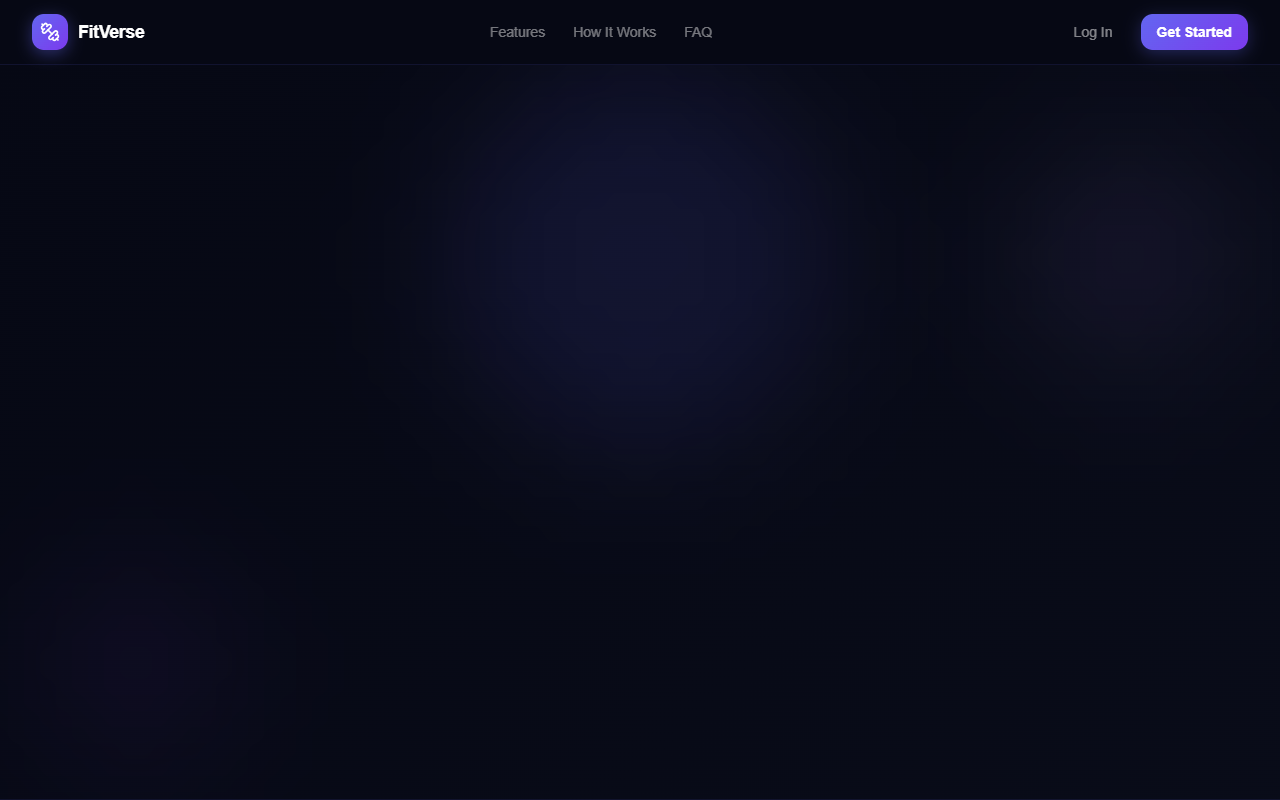
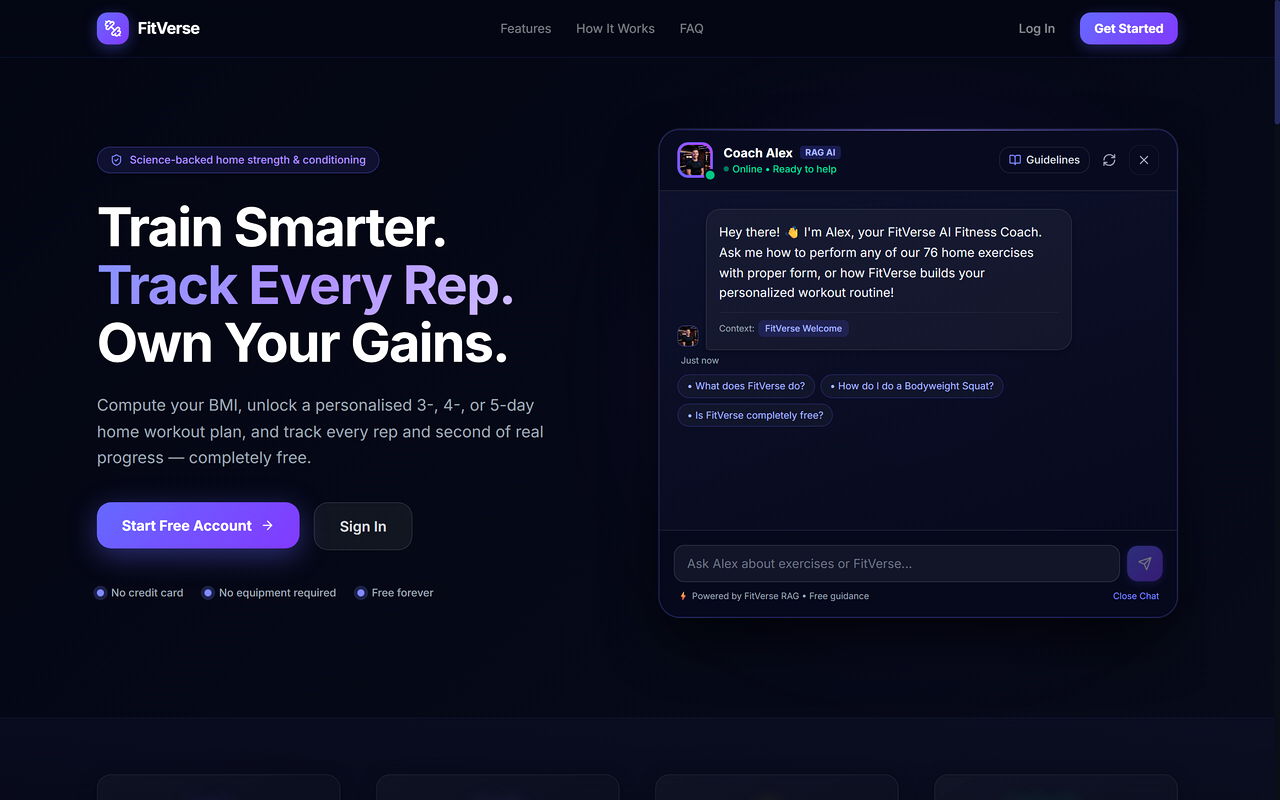
feat: update FitVerse showcase with HiDPI preview and RAG AI chatbot architecture details

diff --git a/src/components/Projects.jsx b/src/components/Projects.jsx
@@ -12,21 +12,30 @@ const projects = [
   {
     id: "fitverse",
     number: "01",
-    title: "FitVerse — Smart Workout Planner & Tracker",
-    category: "Full-Stack Web App",
+    title: "FitVerse — AI Workout Planner & RAG Fitness Coach",
+    category: "AI & Full-Stack MERN",
     filterCategory: "mern",
     domain: "fitversee.vercel.app",
     liveUrl: "https://fitversee.vercel.app",
     image: "/projects/fitverse.png",
     description:
-      "A responsive, full-featured digital fitness companion designed for crafting custom training splits, logging daily sets/reps in real time, and visualizing long-term performance gains with interactive milestone tracking.",
+      "An intelligent, full-stack fitness platform featuring 'Coach Alex' — an integrated RAG-based AI fitness coach powered by Gemini API with domain knowledge retrieval across 76 exercise guides and 36 deterministic workout plans. Engineered with server-evaluated BMI/age-band stratification, live workout logging with rest timers, and interactive volume/streak analytics.",
     highlights: [
-      "Dynamic routine builder with exercise database & target muscle mapping",
-      "Live workout logger with interactive set, rep, and weight counters",
-      "Persistent workout analytics, milestone streaks, and responsive dark UI",
+      "RAG AI Fitness Coach (Coach Alex): Grounded semantic retrieval across 76 exercise guides & 36 custom splits with tokenized BM25 search, synonym expansion, and source citations",
+      "Algorithmic Plan Personalization: Deterministic routine allocation dynamically calculated from server-side BMI, age-band, and experience classifications",
+      "Live Session Tracker & Analytics: Interactive set/rep/weight logging with rest interval timers and multi-metric visual progress tracking powered by Recharts",
     ],
-    tags: ["React.js", "Tailwind CSS", "JavaScript", "Vite", "PWA Ready"],
-    badge: "Live Production",
+    tags: [
+      "React 19",
+      "Node.js",
+      "Express 5",
+      "MongoDB",
+      "RAG Architecture",
+      "Gemini API",
+      "Tailwind CSS",
+      "Recharts",
+    ],
+    badge: "RAG AI • Live",
     badgeColor: "emerald",
     featured: true,
   },
@@ -237,7 +246,7 @@ function Projects() {
                         className="w-full h-full object-cover object-top transition-transform duration-700 ease-out group-hover:scale-105"
                       />
                       {/* Gradient Scrim */}
-                      <div className="absolute inset-0 bg-gradient-to-t from-[#080c1d] via-transparent to-transparent opacity-75" />
+                      <div className="absolute inset-0 bg-gradient-to-t from-[#080c1d] via-transparent to-transparent opacity-40" />
 
                       {/* Hover Overlay Button */}
                       {project.liveUrl && (
